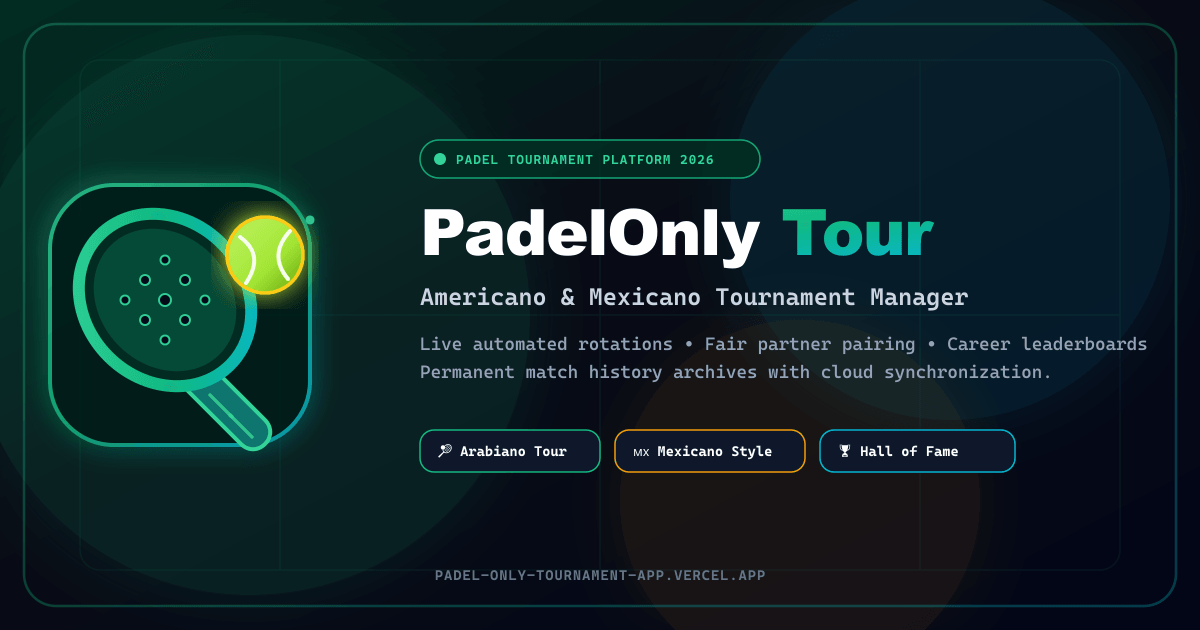
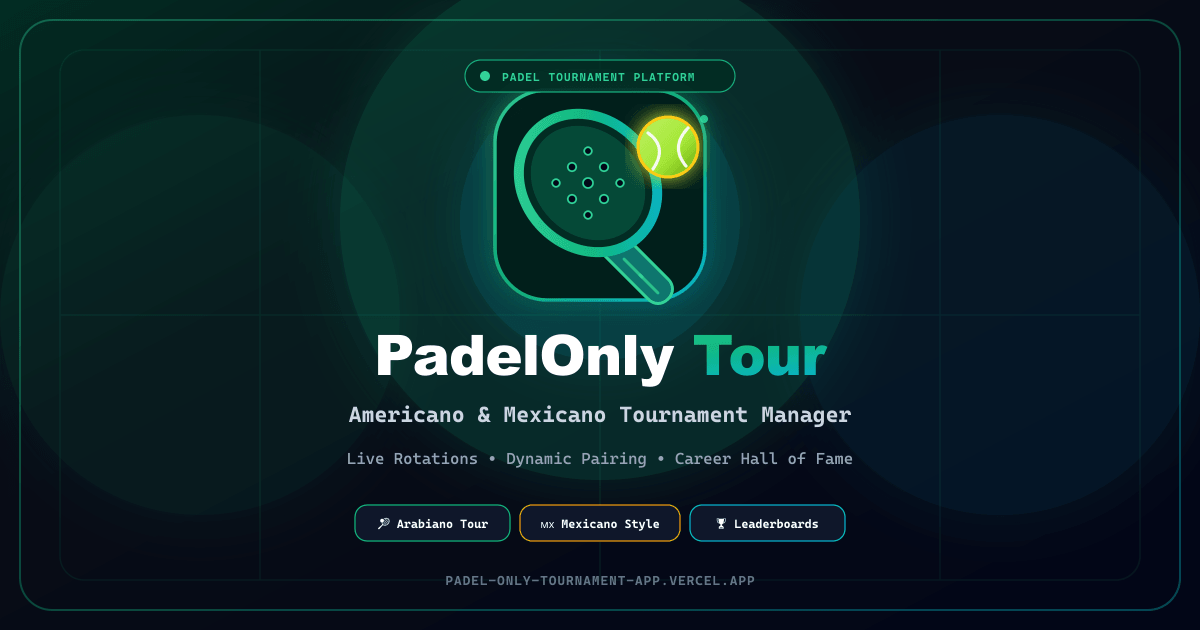
feat: center OpenGraph preview content for optimal WhatsApp square thumbnail crop

diff --git a/scripts/generate_og_image.js b/scripts/generate_og_image.js
@@ -9,7 +9,7 @@ async function createOgImage() {
       <!-- Background Gradient -->
       <linearGradient id="bg" x1="0%" y1="0%" x2="100%" y2="100%">
         <stop offset="0%" stop-color="#022c22" />
-        <stop offset="40%" stop-color="#090d16" />
+        <stop offset="35%" stop-color="#090d16" />
         <stop offset="100%" stop-color="#020617" />
       </linearGradient>
 
@@ -18,12 +18,6 @@ async function createOgImage() {
         <stop offset="0%" stop-color="#34d399" />
         <stop offset="50%" stop-color="#10b981" />
         <stop offset="100%" stop-color="#06b6d4" />
-      </linearGradient>
-
-      <!-- Amber Gradient -->
-      <linearGradient id="amberGold" x1="0%" y1="0%" x2="100%" y2="100%">
-        <stop offset="0%" stop-color="#fbbf24" />
-        <stop offset="100%" stop-color="#f59e0b" />
       </linearGradient>
 
       <!-- Ball Gradient -->
@@ -35,11 +29,11 @@ async function createOgImage() {
 
       <!-- Glow Filters -->
       <filter id="glow" x="-30%" y="-30%" width="160%" height="160%">
-        <feGaussianBlur stdDeviation="30" result="blur" />
+        <feGaussianBlur stdDeviation="28" result="blur" />
         <feComposite in="SourceGraphic" in2="blur" operator="over" />
       </filter>
       <filter id="subtleGlow" x="-20%" y="-20%" width="140%" height="140%">
-        <feGaussianBlur stdDeviation="12" result="blur" />
+        <feGaussianBlur stdDeviation="10" result="blur" />
         <feComposite in="SourceGraphic" in2="blur" operator="over" />
       </filter>
     </defs>
@@ -47,112 +41,113 @@ async function createOgImage() {
     <!-- Canvas Background -->
     <rect width="1200" height="630" fill="url(#bg)" />
 
-    <!-- Ambient Glowing Orbs -->
-    <circle cx="250" cy="315" r="280" fill="#10b981" opacity="0.12" filter="url(#glow)" />
-    <circle cx="950" cy="200" r="220" fill="#06b6d4" opacity="0.10" filter="url(#glow)" />
-    <circle cx="800" cy="500" r="180" fill="#f59e0b" opacity="0.08" filter="url(#glow)" />
+    <!-- Ambient Radiant Glow in Center for WhatsApp Square Crop -->
+    <circle cx="600" cy="220" r="260" fill="#10b981" opacity="0.18" filter="url(#glow)" />
+    <circle cx="600" cy="220" r="140" fill="#06b6d4" opacity="0.15" filter="url(#glow)" />
+    <circle cx="200" cy="315" r="200" fill="#10b981" opacity="0.08" filter="url(#glow)" />
+    <circle cx="1000" cy="315" r="200" fill="#06b6d4" opacity="0.08" filter="url(#glow)" />
 
-    <!-- Stylized Geometric Padel Court Grid in Background -->
-    <g stroke="#10b981" stroke-width="1.5" opacity="0.08">
-      <rect x="80" y="60" width="1040" height="510" rx="20" />
-      <line x1="600" y1="60" x2="600" y2="570" />
-      <line x1="80" y1="315" x2="1120" y2="315" />
-      <line x1="280" y1="60" x2="280" y2="570" />
-      <line x1="920" y1="60" x2="920" y2="570" />
+    <!-- Padel Court Lines in Background -->
+    <g stroke="#10b981" stroke-width="1.5" opacity="0.09">
+      <rect x="60" y="50" width="1080" height="530" rx="24" />
+      <line x1="600" y1="50" x2="600" y2="580" />
+      <line x1="60" y1="315" x2="1140" y2="315" />
+      <line x1="260" y1="50" x2="260" y2="580" />
+      <line x1="940" y1="50" x2="940" y2="580" />
     </g>
 
     <!-- Outer Card Border -->
-    <rect x="24" y="24" width="1152" height="582" rx="32" stroke="url(#emeraldTeal)" stroke-width="2.5" opacity="0.3" />
+    <rect x="20" y="20" width="1160" height="590" rx="32" stroke="url(#emeraldTeal)" stroke-width="2" opacity="0.35" />
 
-    <!-- LEFT SIDE: Big Brand Padel Racket & Ball Emblem -->
-    <g transform="translate(180, 315)">
+    <!-- ======================================================== -->
+    <!-- CENTER SAFE ZONE (Fits 1:1 WhatsApp Square Crop Perfectly) -->
+    <!-- ======================================================== -->
+
+    <!-- Padel Racket & Ball Emblem (Centered at x=600, y=200) -->
+    <g transform="translate(600, 195)">
       <!-- Background squircle -->
-      <rect x="-130" y="-130" width="260" height="260" rx="64" fill="#031b15" stroke="url(#emeraldTeal)" stroke-width="4" opacity="0.8" filter="url(#subtleGlow)" />
+      <rect x="-105" y="-105" width="210" height="210" rx="52" fill="#021c17" stroke="url(#emeraldTeal)" stroke-width="3.5" opacity="0.9" filter="url(#subtleGlow)" />
 
       <!-- Padel Racket Handle -->
-      <path d="M 30 50 L 85 105 C 92 112 92 122 85 129 C 78 136 68 136 61 129 L 6 74 Z" fill="#0f766e" stroke="#34d399" stroke-width="4" stroke-linejoin="round" />
-      <line x1="30" y1="80" x2="52" y2="102" stroke="#34d399" stroke-width="3.5" stroke-linecap="round" opacity="0.8" />
-      <line x1="50" y1="100" x2="72" y2="122" stroke="#34d399" stroke-width="3.5" stroke-linecap="round" opacity="0.8" />
+      <path d="M 24 40 L 68 84 C 74 90 74 98 68 104 C 62 110 54 110 48 104 L 4 60 Z" fill="#0f766e" stroke="#34d399" stroke-width="3" stroke-linejoin="round" />
+      <line x1="24" y1="64" x2="42" y2="82" stroke="#34d399" stroke-width="3" stroke-linecap="round" opacity="0.8" />
+      <line x1="40" y1="80" x2="58" y2="98" stroke="#34d399" stroke-width="3" stroke-linecap="round" opacity="0.8" />
 
       <!-- Padel Racket Head (Tilted 45 deg) -->
-      <ellipse cx="-15" cy="-15" rx="80" ry="92" transform="rotate(-45 -15 -15)" fill="#022c22" stroke="url(#emeraldTeal)" stroke-width="12" />
-      <ellipse cx="-15" cy="-15" rx="65" ry="77" transform="rotate(-45 -15 -15)" fill="#064e3b" opacity="0.85" />
+      <ellipse cx="-12" cy="-12" rx="64" ry="74" transform="rotate(-45 -12 -12)" fill="#022c22" stroke="url(#emeraldTeal)" stroke-width="10" />
+      <ellipse cx="-12" cy="-12" rx="52" ry="62" transform="rotate(-45 -12 -12)" fill="#064e3b" opacity="0.85" />
 
       <!-- Racket Holes -->
-      <g fill="#020617" stroke="#34d399" stroke-width="2" opacity="0.95">
-        <circle cx="-15" cy="-15" r="6" />
-        <circle cx="-35" cy="-35" r="5" />
-        <circle cx="5" cy="5" r="5" />
-        <circle cx="5" cy="-35" r="5" />
-        <circle cx="-35" cy="5" r="5" />
-        <circle cx="-55" cy="-15" r="4.5" />
-        <circle cx="25" cy="-15" r="4.5" />
-        <circle cx="-15" cy="-55" r="4.5" />
-        <circle cx="-15" cy="25" r="4.5" />
+      <g fill="#020617" stroke="#34d399" stroke-width="1.8" opacity="0.95">
+        <circle cx="-12" cy="-12" r="5" />
+        <circle cx="-28" cy="-28" r="4.2" />
+        <circle cx="4" cy="4" r="4.2" />
+        <circle cx="4" cy="-28" r="4.2" />
+        <circle cx="-28" cy="4" r="4.2" />
+        <circle cx="-44" cy="-12" r="3.8" />
+        <circle cx="20" cy="-12" r="3.8" />
+        <circle cx="-12" cy="-44" r="3.8" />
+        <circle cx="-12" cy="20" r="3.8" />
       </g>
 
       <!-- Optic-Lime Padel Ball -->
-      <circle cx="85" cy="-60" r="38" fill="url(#ballGrad)" stroke="#facc15" stroke-width="3.5" filter="url(#subtleGlow)" />
+      <circle cx="68" cy="-48" r="30" fill="url(#ballGrad)" stroke="#facc15" stroke-width="3" filter="url(#subtleGlow)" />
       <!-- Ball Seams -->
-      <path d="M 60 -78 Q 85 -60 66 -32" fill="none" stroke="#ffffff" stroke-width="4" stroke-linecap="round" opacity="0.9" />
-      <path d="M 110 -84 Q 88 -60 108 -36" fill="none" stroke="#ffffff" stroke-width="4" stroke-linecap="round" opacity="0.9" />
+      <path d="M 48 -62 Q 68 -48 53 -26" fill="none" stroke="#ffffff" stroke-width="3.2" stroke-linecap="round" opacity="0.9" />
+      <path d="M 88 -67 Q 70 -48 86 -29" fill="none" stroke="#ffffff" stroke-width="3.2" stroke-linecap="round" opacity="0.9" />
 
       <!-- Sparkle -->
-      <circle cx="130" cy="-95" r="4.5" fill="#34d399" opacity="0.9" />
+      <circle cx="104" cy="-76" r="4" fill="#34d399" opacity="0.9" />
     </g>
 
-    <!-- RIGHT SIDE: Text Branding & Highlights -->
-    <g transform="translate(420, 140)">
-      <!-- Top Pill Badge -->
-      <rect x="0" y="0" width="340" height="38" rx="19" fill="#022c22" stroke="#10b981" stroke-width="1.5" opacity="0.9" />
-      <circle cx="20" cy="19" r="6" fill="#34d399" />
-      <text x="36" y="24" fill="#34d399" font-family="system-ui, -apple-system, sans-serif" font-weight="800" font-size="13" letter-spacing="1">
-        PADEL TOURNAMENT PLATFORM 2026
+    <!-- Top Category Tag (Centered) -->
+    <g transform="translate(600, 60)">
+      <rect x="-135" y="0" width="270" height="32" rx="16" fill="#022c22" stroke="#10b981" stroke-width="1.2" opacity="0.9" />
+      <circle cx="-115" cy="16" r="5" fill="#34d399" />
+      <text x="-98" y="21" fill="#34d399" font-family="system-ui, -apple-system, sans-serif" font-weight="800" font-size="11.5" letter-spacing="1">
+        PADEL TOURNAMENT PLATFORM
       </text>
-
-      <!-- Big Title: PadelOnly Tour -->
-      <text x="0" y="115" font-family="system-ui, -apple-system, sans-serif" font-weight="900" font-size="64" letter-spacing="-1.5">
-        <tspan fill="#ffffff">PadelOnly </tspan>
-        <tspan fill="url(#emeraldTeal)">Tour</tspan>
-      </text>
-
-      <!-- Subtitle -->
-      <text x="0" y="165" fill="#cbd5e1" font-family="system-ui, -apple-system, sans-serif" font-weight="600" font-size="24">
-        Americano &amp; Mexicano Tournament Manager
-      </text>
-
-      <!-- Description Paragraph -->
-      <text x="0" y="210" fill="#94a3b8" font-family="system-ui, -apple-system, sans-serif" font-weight="500" font-size="18">
-        Live automated rotations • Fair partner pairing • Career leaderboards
-      </text>
-      <text x="0" y="238" fill="#94a3b8" font-family="system-ui, -apple-system, sans-serif" font-weight="500" font-size="18">
-        Permanent match history archives with cloud synchronization.
-      </text>
-
-      <!-- Feature Pill Badges -->
-      <g transform="translate(0, 290)">
-        <!-- Badge 1: Arabiano -->
-        <rect x="0" y="0" width="180" height="42" rx="14" fill="#0f172a" stroke="#10b981" stroke-width="1.5" />
-        <text x="18" y="26" fill="#ffffff" font-family="system-ui, -apple-system, sans-serif" font-weight="700" font-size="14">
-          🎾 Arabiano Tour
-        </text>
-
-        <!-- Badge 2: Mexicano -->
-        <rect x="195" y="0" width="190" height="42" rx="14" fill="#0f172a" stroke="#f59e0b" stroke-width="1.5" />
-        <text x="213" y="26" fill="#ffffff" font-family="system-ui, -apple-system, sans-serif" font-weight="700" font-size="14">
-          🇲🇽 Mexicano Style
-        </text>
-
-        <!-- Badge 3: Leaderboard -->
-        <rect x="400" y="0" width="195" height="42" rx="14" fill="#0f172a" stroke="#06b6d4" stroke-width="1.5" />
-        <text x="418" y="26" fill="#ffffff" font-family="system-ui, -apple-system, sans-serif" font-weight="700" font-size="14">
-          🏆 Hall of Fame
-        </text>
-      </g>
     </g>
 
-    <!-- Bottom Footer Brand URL -->
-    <text x="600" y="580" text-anchor="middle" fill="#64748b" font-family="system-ui, -apple-system, sans-serif" font-weight="700" font-size="14" letter-spacing="1">
+    <!-- Brand Title: PadelOnly Tour (Centered at x=600, y=375) -->
+    <text x="600" y="375" text-anchor="middle" font-family="system-ui, -apple-system, sans-serif" font-weight="900" font-size="56" letter-spacing="-1">
+      <tspan fill="#ffffff">PadelOnly </tspan>
+      <tspan fill="url(#emeraldTeal)">Tour</tspan>
+    </text>
+
+    <!-- Subtitle (Centered at x=600, y=422) -->
+    <text x="600" y="422" text-anchor="middle" fill="#cbd5e1" font-family="system-ui, -apple-system, sans-serif" font-weight="700" font-size="22">
+      Americano &amp; Mexicano Tournament Manager
+    </text>
+
+    <!-- Feature Description (Centered at x=600, y=464) -->
+    <text x="600" y="464" text-anchor="middle" fill="#94a3b8" font-family="system-ui, -apple-system, sans-serif" font-weight="500" font-size="16">
+      Live Rotations • Dynamic Pairing • Career Hall of Fame
+    </text>
+
+    <!-- Bottom Badges Row (Centered at x=600, y=515) -->
+    <g transform="translate(600, 505)">
+      <!-- Badge 1: Arabiano -->
+      <rect x="-245" y="0" width="155" height="36" rx="12" fill="#0f172a" stroke="#10b981" stroke-width="1.2" />
+      <text x="-167" y="23" text-anchor="middle" fill="#ffffff" font-family="system-ui, -apple-system, sans-serif" font-weight="700" font-size="12">
+        🎾 Arabiano Tour
+      </text>
+
+      <!-- Badge 2: Mexicano -->
+      <rect x="-80" y="0" width="160" height="36" rx="12" fill="#0f172a" stroke="#f59e0b" stroke-width="1.2" />
+      <text x="0" y="23" text-anchor="middle" fill="#ffffff" font-family="system-ui, -apple-system, sans-serif" font-weight="700" font-size="12">
+        🇲🇽 Mexicano Style
+      </text>
+
+      <!-- Badge 3: Leaderboard -->
+      <rect x="90" y="0" width="155" height="36" rx="12" fill="#0f172a" stroke="#06b6d4" stroke-width="1.2" />
+      <text x="167" y="23" text-anchor="middle" fill="#ffffff" font-family="system-ui, -apple-system, sans-serif" font-weight="700" font-size="12">
+        🏆 Leaderboards
+      </text>
+    </g>
+
+    <!-- Footer URL (Centered at x=600, y=585) -->
+    <text x="600" y="585" text-anchor="middle" fill="#64748b" font-family="system-ui, -apple-system, sans-serif" font-weight="700" font-size="13" letter-spacing="1">
       PADEL-ONLY-TOURNAMENT-APP.VERCEL.APP
     </text>
   </svg>
@@ -165,7 +160,14 @@ async function createOgImage() {
   fs.writeFileSync(path.join(__dirname, '..', 'public', 'og-image.png'), pngBuffer);
   fs.writeFileSync(path.join(__dirname, '..', 'app', 'opengraph-image.png'), pngBuffer);
 
-  console.log('Successfully generated 1200x630 OpenGraph social preview images!');
+  // Also create a square 600x600 version specifically for platforms requiring square ratio
+  const squarePng = await sharp(pngBuffer)
+    .extract({ left: 285, top: 0, width: 630, height: 630 })
+    .png({ quality: 95 })
+    .toBuffer();
+  fs.writeFileSync(path.join(__dirname, '..', 'public', 'og-image-square.png'), squarePng);
+
+  console.log('Successfully generated centered OpenGraph preview images (landscape & square)!');
 }
 
 createOgImage().catch(err => {

diff --git a/components/GlobalLeaderboard.tsx b/components/GlobalLeaderboard.tsx
@@ -244,7 +244,7 @@ export const GlobalLeaderboard: React.FC<GlobalLeaderboardProps> = ({
           `${i === 0 ? "🥇" : i === 1 ? "🥈" : "🥉"} #${i + 1} ${p.name}: ${p.displayPoints} pts (${p.displayTours} tours)`
       )
       .join("\n");
-    const url = typeof window !== "undefined" ? `${window.location.origin}/leaderboard?v=1` : "";
+    const url = typeof window !== "undefined" ? `${window.location.origin}/leaderboard?v=2` : "";
     const msg = `🏆 *Arabiano Padel Leaderboard (${periodName})* 🏆\n\n${top3}\n\n👉 View complete standings & player profiles:\n${url}`;
     const waUrl = `https://wa.me/?text=${encodeURIComponent(msg)}`;
     window.open(waUrl, "_blank");

diff --git a/app/player/[name]/page.tsx b/app/player/[name]/page.tsx
@@ -70,7 +70,7 @@ export default function PlayerProfilePage() {
 
   const handleShareWhatsApp = () => {
     if (!player) return;
-    const url = typeof window !== "undefined" ? `${window.location.href}?v=1` : "";
+    const url = typeof window !== "undefined" ? `${window.location.href}?v=2` : "";
     const text = `🎾 PadelOnly Tour Player Profile: ${player.name}\n🏆 Career Rank #${rank} • ${player.totalPoints} Total Points\n🥇 ${player.championships} Championship(s) • ${player.toursPlayed} Tour(s) Played\n\nView profile & match history: ${url}`;
     const whatsappUrl = `https://wa.me/?text=${encodeURIComponent(text)}`;
     window.open(whatsappUrl, "_blank");

diff --git a/app/layout.tsx b/app/layout.tsx
@@ -29,6 +29,13 @@ export const metadata: Metadata = {
         type: "image/png",
         alt: "PadelOnly Tour - Americano & Mexicano Platform",
       },
+      {
+        url: "https://padel-only-tournament-app.vercel.app/og-image-square.png",
+        width: 630,
+        height: 630,
+        type: "image/png",
+        alt: "PadelOnly Tour",
+      },
     ],
     locale: "en_US",
     type: "website",
